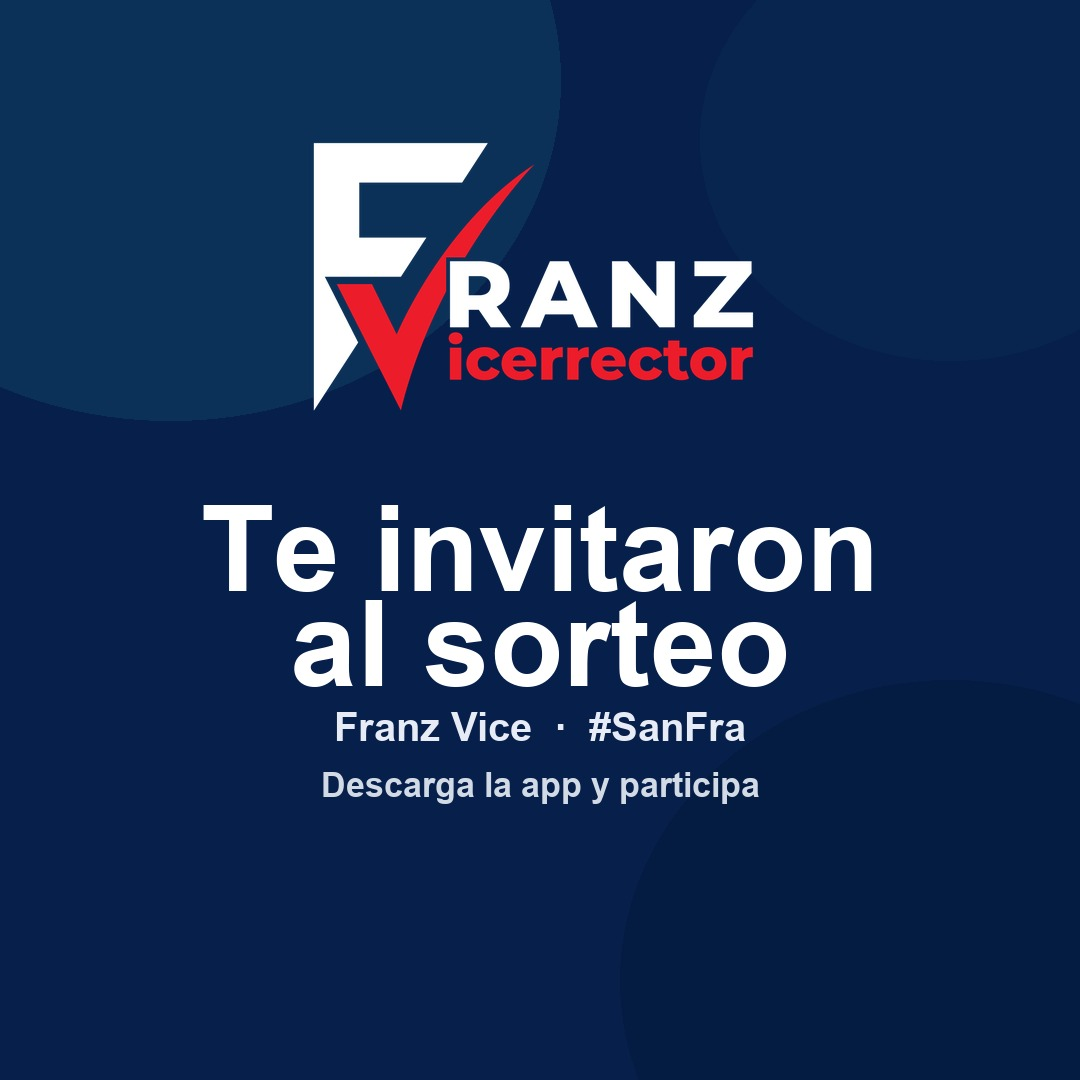
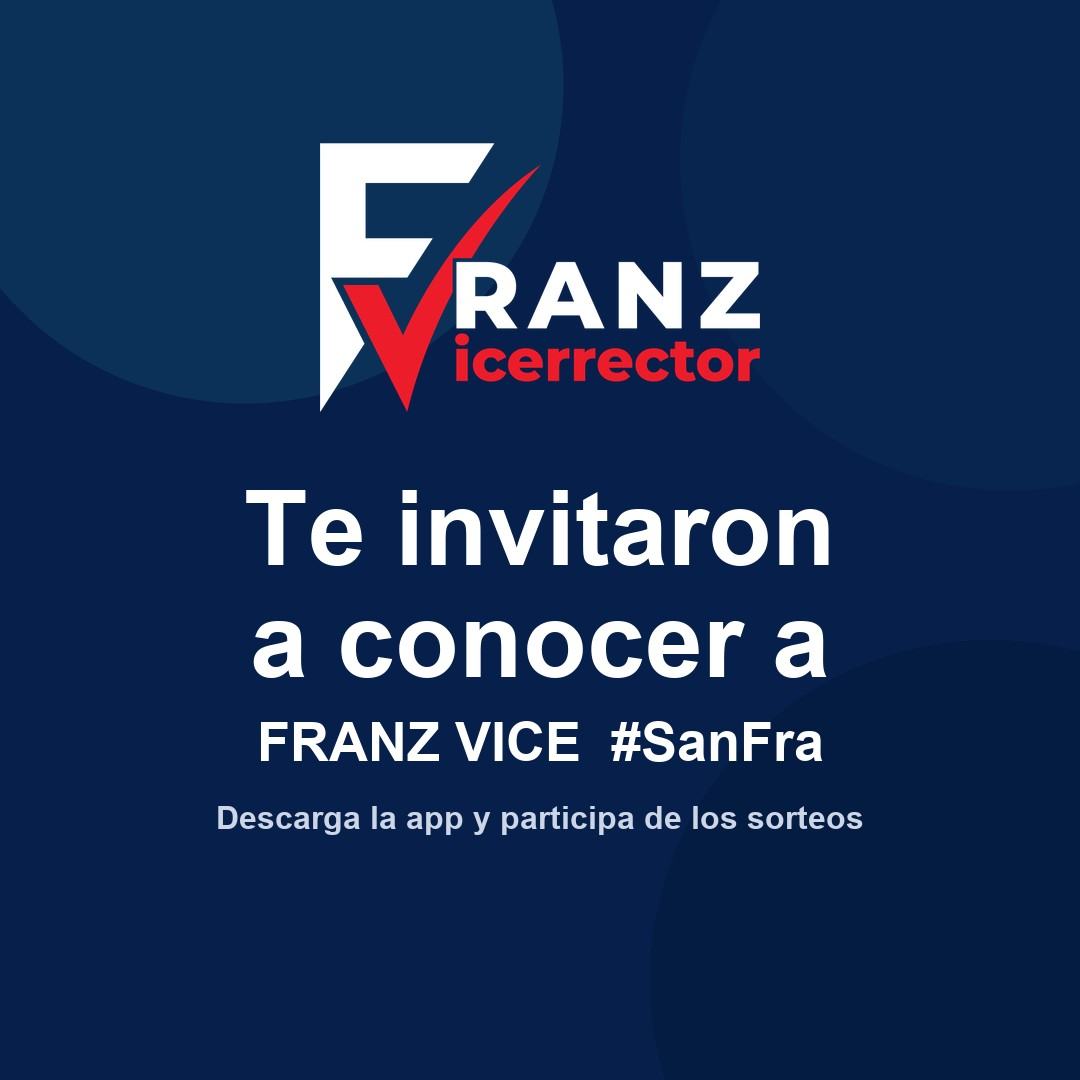
Textos de invitación nuevos

Changed region(s): [[0.1833, 0.4278, 0.825, 0.7944], [0.275, 0.1222, 0.7028, 0.3972]]

diff --git a/404.html b/404.html
@@ -3,27 +3,27 @@
 <head>
   <meta charset="UTF-8">
   <meta name="viewport" content="width=device-width, initial-scale=1.0">
-  <title>Te invitaron al sorteo · Franz Vice #SanFra</title>
-  <meta name="description" content="Descarga la app Franz Vice #SanFra, regístrate y participa por los premios.">
+  <title>Te invitaron a conocer a FRANZ VICE #SanFra</title>
+  <meta name="description" content="Descarga la app Franz Vice #SanFra, regístrate y participa de los sorteos.">
   <meta name="robots" content="noindex,nofollow">
   <link rel="icon" type="image/png" href="/favicon.png">
 
   <meta property="og:type" content="website">
   <meta property="og:site_name" content="Franz Vice #SanFra">
-  <meta property="og:title" content="Te invitaron al sorteo Franz Vice #SanFra">
-  <meta property="og:description" content="Descarga la app, regístrate y participa por los premios.">
-  <meta property="og:image" content="https://franzvice.com/play-assets/og-invite.jpg?v=7">
-  <meta property="og:image:secure_url" content="https://franzvice.com/play-assets/og-invite.jpg?v=7">
+  <meta property="og:title" content="Te invitaron a conocer a FRANZ VICE #SanFra">
+  <meta property="og:description" content="Descarga la app, regístrate y participa de los sorteos.">
+  <meta property="og:image" content="https://franzvice.com/play-assets/og-invite.jpg?v=8">
+  <meta property="og:image:secure_url" content="https://franzvice.com/play-assets/og-invite.jpg?v=8">
   <meta property="og:image:type" content="image/jpeg">
   <meta property="og:image:width" content="1080">
   <meta property="og:image:height" content="1080">
-  <meta property="og:image:alt" content="Te invitaron al sorteo Franz Vice #SanFra">
+  <meta property="og:image:alt" content="Te invitaron a conocer a FRANZ VICE #SanFra">
   <meta property="og:locale" content="es_BO">
   <meta name="twitter:card" content="summary_large_image">
-  <meta name="twitter:title" content="Te invitaron al sorteo Franz Vice #SanFra">
-  <meta name="twitter:description" content="Descarga la app, regístrate y participa por los premios.">
-  <meta name="twitter:image" content="https://franzvice.com/play-assets/og-invite.jpg?v=7">
-  <link rel="image_src" href="https://franzvice.com/play-assets/og-invite.jpg?v=7">
+  <meta name="twitter:title" content="Te invitaron a conocer a FRANZ VICE #SanFra">
+  <meta name="twitter:description" content="Descarga la app, regístrate y participa de los sorteos.">
+  <meta name="twitter:image" content="https://franzvice.com/play-assets/og-invite.jpg?v=8">
+  <link rel="image_src" href="https://franzvice.com/play-assets/og-invite.jpg?v=8">
 
   <link rel="preconnect" href="https://fonts.googleapis.com">
   <link rel="preconnect" href="https://fonts.gstatic.com" crossorigin>
@@ -352,10 +352,10 @@
         var appUrl = code
           ? APP_SCHEME + '://?ref=' + encodeURIComponent(code)
           : APP_SCHEME + '://';
-        var defaultCopy = 'Descarga la app, regístrate y participa por los premios.';
+        var defaultCopy = 'Descarga la app, regístrate y participa de los sorteos.';
 
         setText(kicker, 'Invitación · #SanFra');
-        setText(title, 'Te invitaron al sorteo');
+        setText(title, 'Te invitaron a conocer a FRANZ VICE #SanFra');
         setText(copy, defaultCopy);
         setText(primary, 'Descargar la app');
         setText(secondary, 'Abrir la app');

diff --git a/app/index.html b/app/index.html
@@ -4,7 +4,7 @@
   <meta charset="UTF-8">
   <meta name="viewport" content="width=device-width, initial-scale=1.0">
   <title>Descarga Franz Vice #SanFra</title>
-  <meta name="description" content="Descarga la app Franz Vice #SanFra, regístrate y participa por los premios.">
+  <meta name="description" content="Descarga la app Franz Vice #SanFra, regístrate y participa de los sorteos.">
   <link rel="icon" type="image/png" href="/favicon.png">
   <link rel="canonical" href="https://franzvice.com/app">
 
@@ -12,7 +12,7 @@
   <meta property="og:site_name" content="Franz Vicerrector">
   <meta property="og:url" content="https://franzvice.com/app">
   <meta property="og:title" content="Descarga Franz Vice #SanFra">
-  <meta property="og:description" content="Regístrate en la app y participa por los premios.">
+  <meta property="og:description" content="Regístrate en la app y participa de los sorteos.">
   <meta property="og:image" content="https://franzvice.com/FranzHero.jpeg">
   <meta property="og:image:width" content="1080">
   <meta property="og:image:height" content="1080">
@@ -20,7 +20,7 @@
   <meta property="og:locale" content="es_BO">
   <meta name="twitter:card" content="summary_large_image">
   <meta name="twitter:title" content="Descarga Franz Vice #SanFra">
-  <meta name="twitter:description" content="Regístrate en la app y participa por los premios.">
+  <meta name="twitter:description" content="Regístrate en la app y participa de los sorteos.">
   <meta name="twitter:image" content="https://franzvice.com/FranzHero.jpeg">
 
   <link rel="preconnect" href="https://fonts.googleapis.com">
